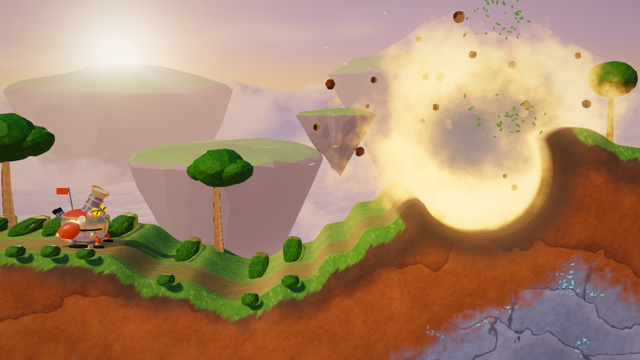
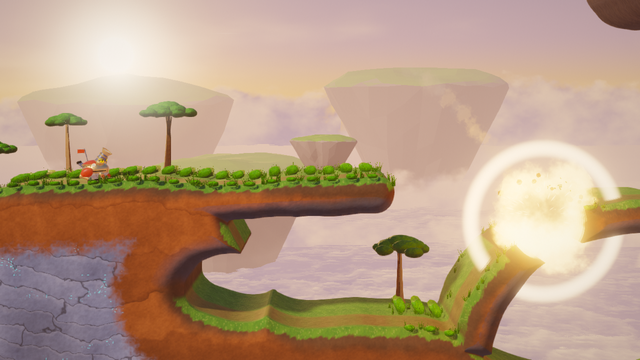
[feat/phao-may] Ảnh thẻ hub chụp lại trên đảo mới
- Ảnh thẻ 640x360: Cóc Đồng đứng trên mái đá, đạn nổ ở vòm đá. Ảnh cũ là đảo của đợt 1.
- thumb.js tự tìm điểm nổ rồi đặt camera lấy cả cỗ pháo và vụ nổ.

Test: không đổi code game; ảnh đã mở xem lại.

diff --git a/games/phao-may/tools/thumb.js b/games/phao-may/tools/thumb.js
@@ -7,7 +7,9 @@ session(async (br, base) => {
   fs.mkdirSync(CHK, { recursive: true });
   const { page } = await open(br, base, 'noaudio=1&nogov=1&manual=1&q=high&autostart=1&seed=3');
   await page.evaluate(`(() => { const G = window.__G, s = G.sim; document.getElementById('hud').classList.add('off'); document.querySelector('a.hub').style.display = 'none';
-    s.wind = 0; __tick(4); __fire({ angle: 60, power: 42, shot: 0 }); __tick(128); __setShot({ x: 50, y: 58, dist: 46 }); __step(2); })()`);
+    s.wind = 0; __tick(4); let at = null; G.bus.on('sim:boom', (e) => { at = at || e; });
+    __fire({ angle: 52, power: 46, shot: 0 }); let g = 0; while (!at && g++ < 400) __tick(1); __tick(5);
+    __setShot({ x: (at.x + s.units[0].x) / 2, y: (at.y + s.units[0].y) / 2 + 2, dist: Math.max(50, Math.abs(at.x - s.units[0].x) * 1.75) }); __step(2); })()`);
   const big = path.join(CHK, 'thumb-1280.png');
   await page.screenshot({ path: big });
   const out = path.join(ROOT, 'assets', 'thumbnails', 'phao-may.png');
